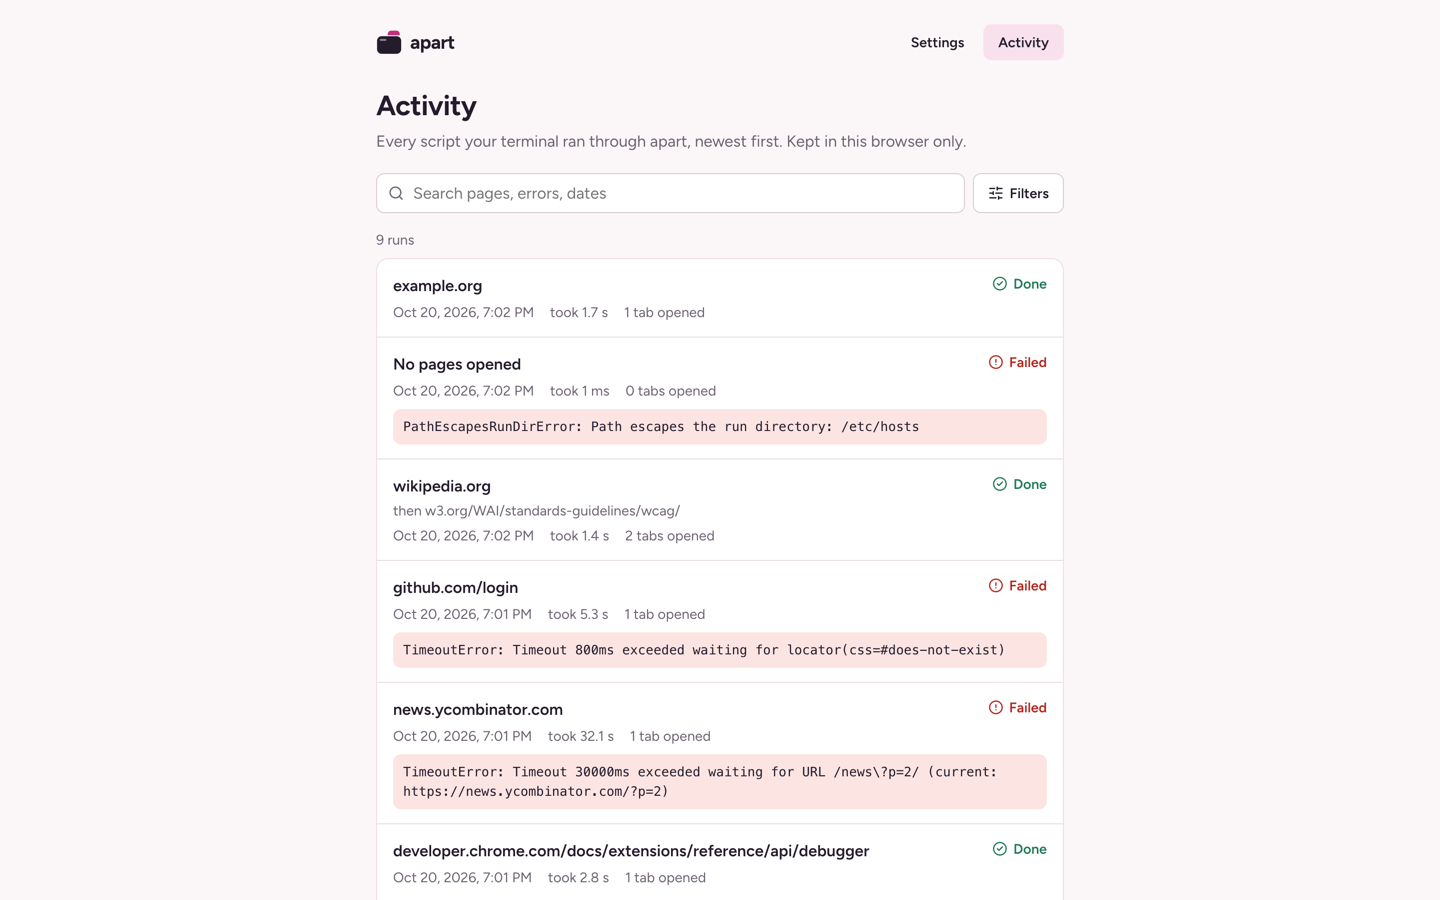
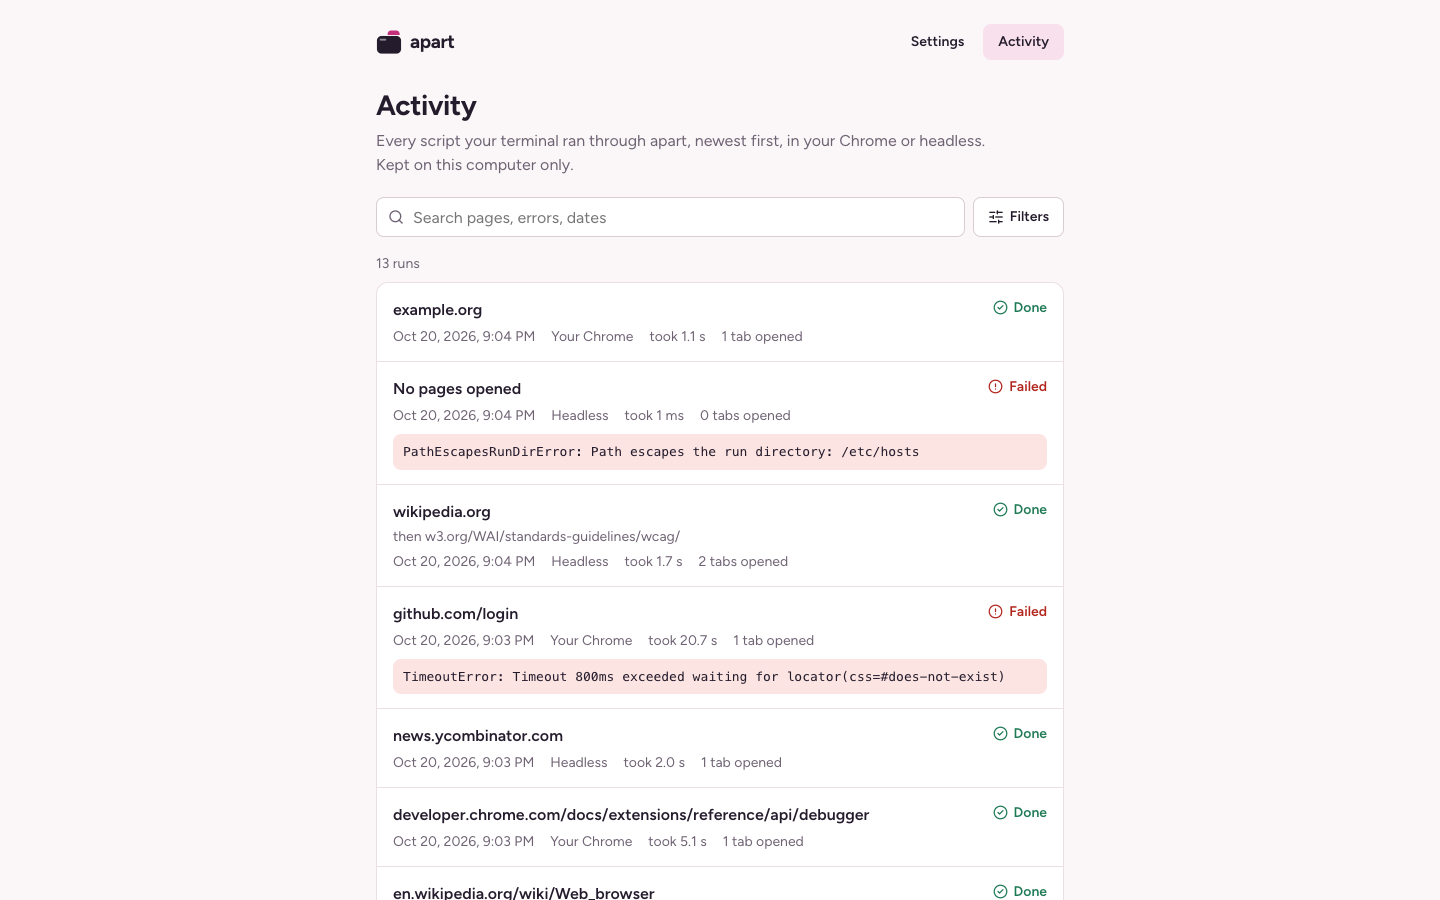
Update apart for headless runs and the new tagline
apart can now run scripts in your Chrome or in a headless Chrome it
starts itself. The project copy, the five screenshots and the brand card
now show both, the default browser setting and the Browser filter.

diff --git a/content.js b/content.js
@@ -153,10 +153,11 @@ window.PORTFOLIO = {
       short: "apart",
       name: "apart",
       platform: "Chrome extension and CLI",
-      summary: "Lets an AI coding agent in the terminal use your real, signed-in Chrome, safely and in plain sight. The agent writes a short Playwright-style script, apart runs it in tabs it opens in its own pink tab group, and reports back what it saw: an accessibility snapshot of the page, a diff of what changed, screenshots and PDFs. It's for checking a dashboard, reproducing a bug behind a login, or testing a flow on a real account without handing over passwords.",
+      summary: "Lets an AI coding agent in the terminal use a real browser: your own signed-in Chrome when you want to watch, or a hidden headless one when you don't. The agent writes a short Playwright-style script, apart runs it in tabs it opens, and reports back what it saw: an accessibility snapshot of the page, a diff of what changed, screenshots and PDFs. It's for checking a dashboard, reproducing a bug behind a login, or testing a flow on a real account without handing over passwords.",
       body: [
-        "It has three parts: a command-line tool and background daemon that run the scripts, and a Chrome extension that relays tab and DevTools commands. The extension's toolbar popup shows at a glance whether the terminal can reach Chrome, with a one-step fix when it can't. An activity log keeps every run with its pages, timing and errors, searchable and filterable, with the view kept in the URL. A settings page shows the port, a setup checklist and exactly what's stored.",
-        "Chrome 136 and later refuse remote debugging on your everyday profile, so apart drives tabs through the extension's debugger API instead of a debugging port. Scripts run in an isolated sandbox that can only write to a folder for that run, with symlinks resolved before every check. Page snapshots work out each control's role and accessible name and give it a short reference the agent can click.",
+        "It has three parts: a command-line tool and background daemon that run the scripts, and a Chrome extension that relays tab and DevTools commands. Each run uses either your Chrome, in its own pink tab group, or a headless Chrome the daemon starts on demand with its own signed-out profile and closes when idle. You pick the default when you install it and can change it in settings; a flag overrides it for one run.",
+        "The extension's toolbar popup shows at a glance whether the terminal can reach Chrome, with a one-step fix when it can't. An activity log keeps every run from both browsers with its pages, timing and errors, searchable and filterable by result, browser and time, with the view kept in the URL. Headless runs made while Chrome was closed sync in when it reconnects. A settings page shows the connection, the default browser, the port, a setup checklist and exactly what's stored.",
+        "Chrome 136 and later refuse remote debugging on your everyday profile, so apart drives your tabs through the extension's debugger API, and talks to the headless browser over a pipe, so neither opens a debugging port. Scripts run in an isolated sandbox that can only write to a folder for that run, with symlinks resolved before every check. Page snapshots work out each control's role and accessible name and give it a short reference the agent can click.",
         "Testing turned up real bugs: a reconnect race between two sockets, a socket path too long for macOS, and the daemon crashing on a busy port. Each was fixed and covered by tests, including an end-to-end test that drives Chrome with the extension loaded.",
         "The brand was made for the product: a browser window with a berry-coloured tab on its edge, the agent's tab kept apart from yours. It holds up in light and dark, down to a 16 px toolbar icon.",
       ],
@@ -165,11 +166,11 @@ window.PORTFOLIO = {
       stack: ["TypeScript", "Node.js", "Chrome Extensions (MV3)", "Chrome DevTools Protocol", "WebSockets", "esbuild", "Vitest"],
       cover: { src: "assets/apart/06-brand-card.png", alt: "" },
       images: [
-        { src: "assets/apart/01-activity-light.png", alt: "apart's activity log in light mode: recent script runs against sites like example.org and wikipedia.org, each with its date, duration and tabs opened, and failed runs showing their error inline." },
-        { src: "assets/apart/03-popup-connected-and-offline.png", alt: "Two toolbar popups side by side: Ready and connected in light mode, and Not connected in dark mode with the command to start apart, a Copy button and a Check now button." },
-        { src: "assets/apart/04-settings-dark.png", alt: "Settings in dark mode: a Ready connection card with daemon, port and extension versions, three first-time setup steps, and the daemon port field." },
-        { src: "assets/apart/02-activity-search-and-filter.png", alt: "The activity log searched for wiki and filtered to Done runs, with removable chips for each, a Clear all link and 2 of 9 runs shown." },
-        { src: "assets/apart/05-activity-dark.png", alt: "The activity log in dark mode, with done and failed runs and their errors." },
+        { src: "assets/apart/01-activity-light.png", alt: "apart's activity log in light mode: recent script runs against sites like example.org and wikipedia.org, each labelled Your Chrome or Headless with its date, duration and tabs opened, and failed runs showing their error inline." },
+        { src: "assets/apart/03-popup-connected-and-offline.png", alt: "Two toolbar popups side by side: Ready and connected in light mode, and Not connected in dark mode with the command to start apart, a Copy button and a Check now button. Recent headless runs are marked headless." },
+        { src: "assets/apart/04-settings-dark.png", alt: "Settings in dark mode: a Ready connection card with daemon, port and extension versions, and the default browser choice between Your Chrome and Headless, with Headless selected." },
+        { src: "assets/apart/02-activity-search-and-filter.png", alt: "The activity log searched for wiki and filtered to headless runs, with removable chips for each, a Clear all link and 2 of 13 runs shown." },
+        { src: "assets/apart/05-activity-dark.png", alt: "The activity log in dark mode, with done and failed runs from your Chrome and headless, and their errors." },
       ],
       links: [{ label: "Source", href: "https://github.com/e6uka/apart" }],
     },
